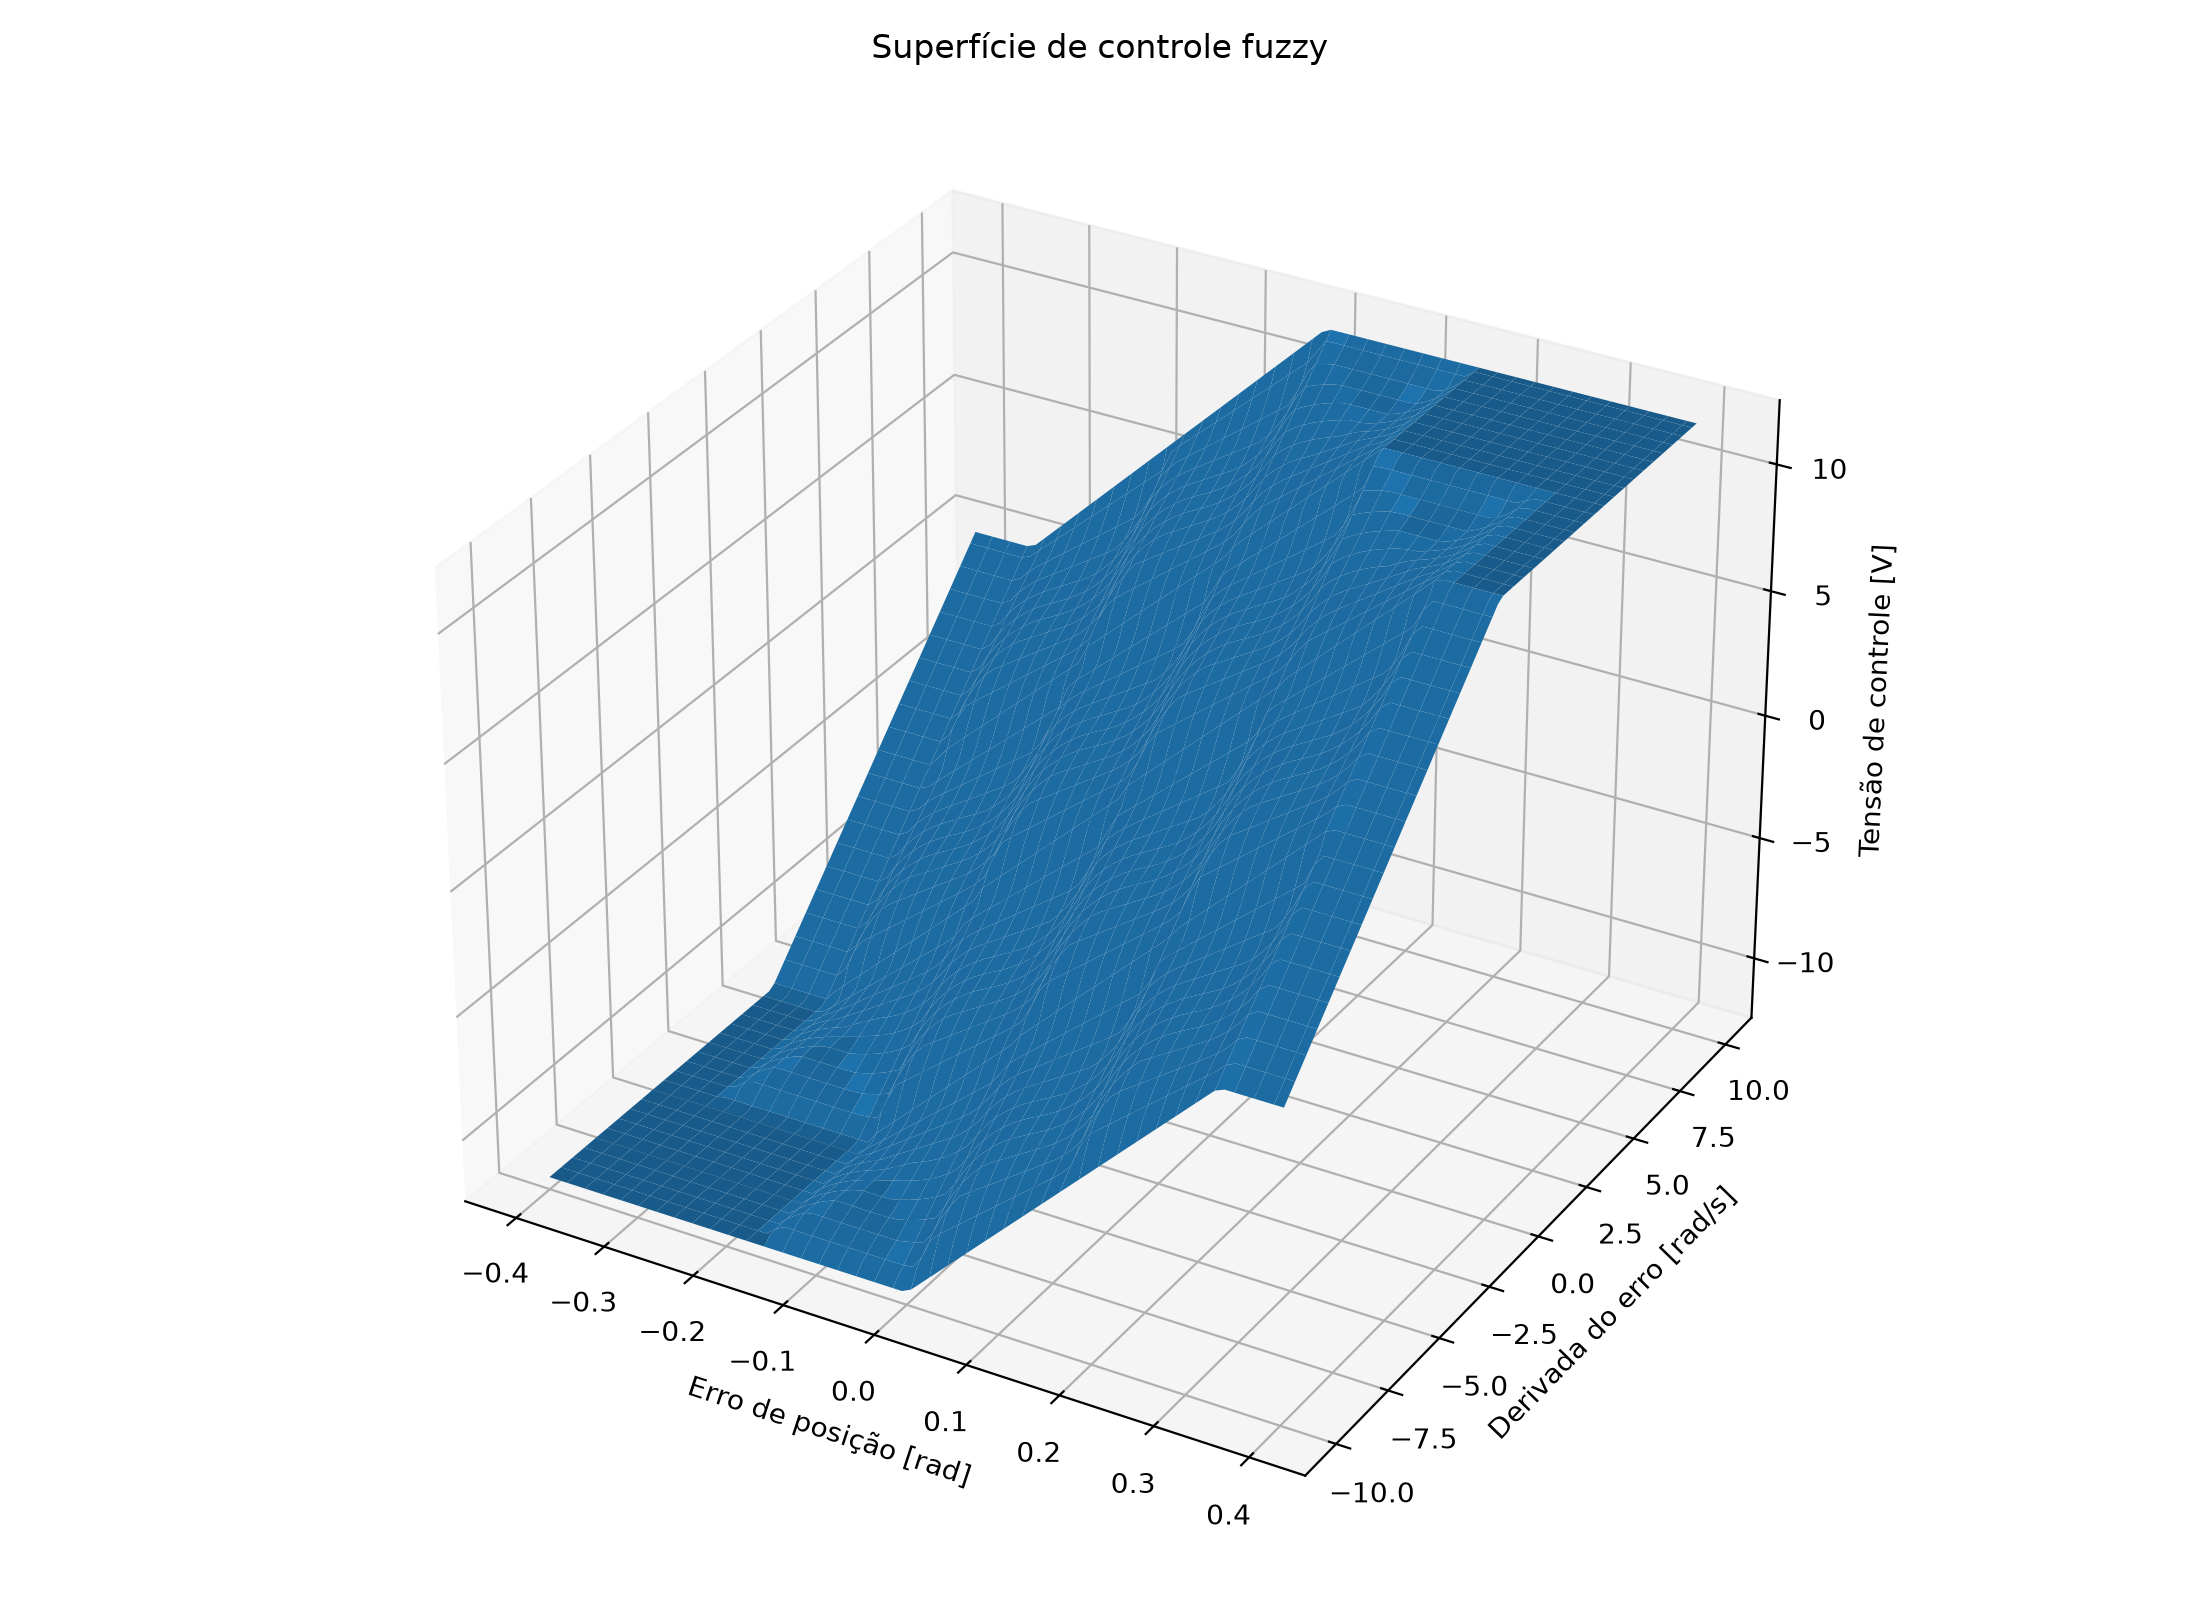
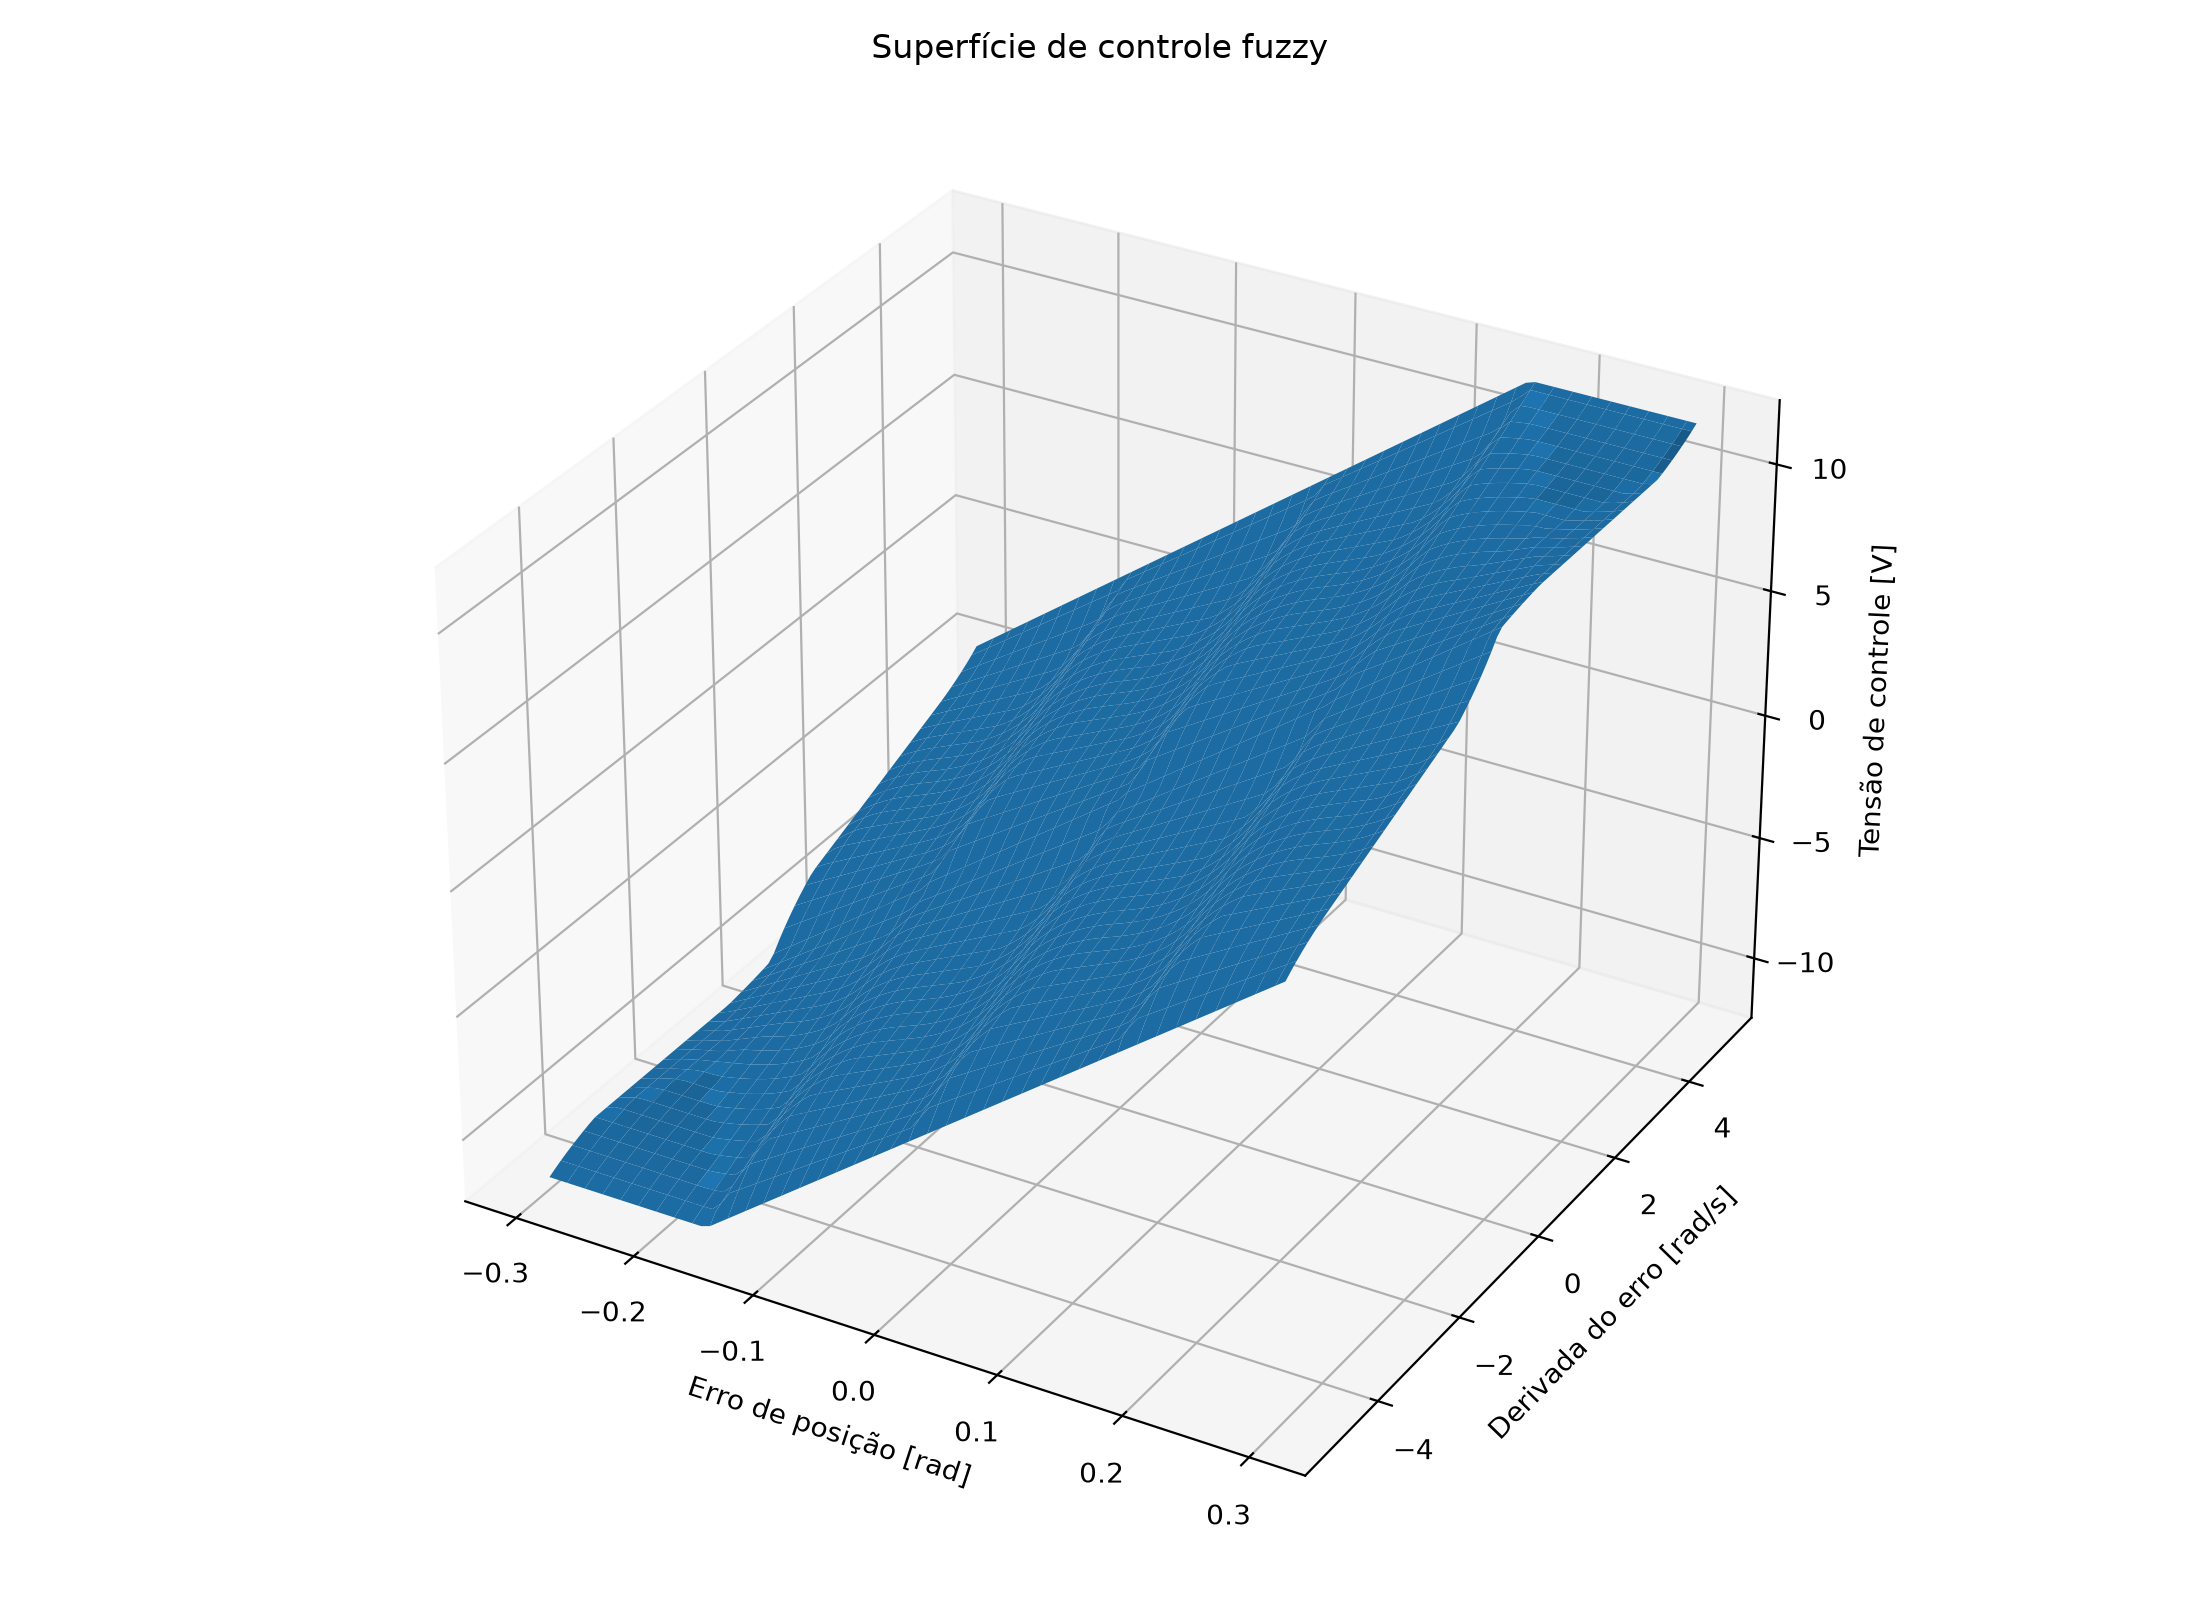
sintonia final e superficie fuzzy

diff --git a/src/fuzzy_visualization.py b/src/fuzzy_visualization.py
@@ -20,7 +20,12 @@ def plot_membership_functions(
         exist_ok=True,
     )
 
-    controller = FuzzyPositionController()
+    controller = FuzzyPositionController(
+        error_scale=4.0,
+        derivative_scale=0.20,
+        output_scale=12.0,
+        voltage_limit=12.0,
+    )
 
     values = np.linspace(
         -1.0,
@@ -98,16 +103,16 @@ def plot_control_surface(
     # Como error_scale = 3, erros próximos de ±0,34 rad
     # já atingem os extremos normalizados ±1.
     error_values = np.linspace(
-        -0.4,
-        0.4,
+        -0.30,
+        0.30,
         80,
     )
 
     # Como derivative_scale = 0,10,
     # derivadas de ±10 rad/s atingem ±1.
     derivative_values = np.linspace(
-        -10.0,
-        10.0,
+        -5.0,
+        5.0,
         80,
     )
 